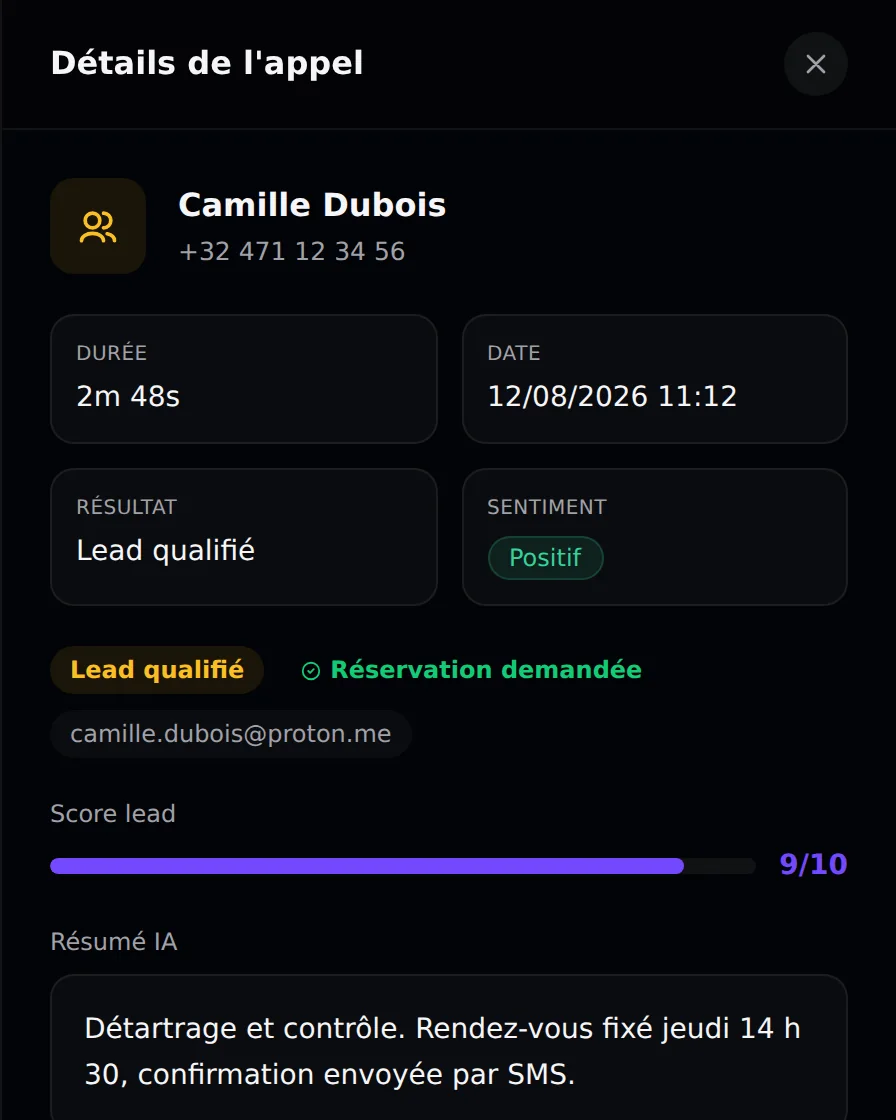
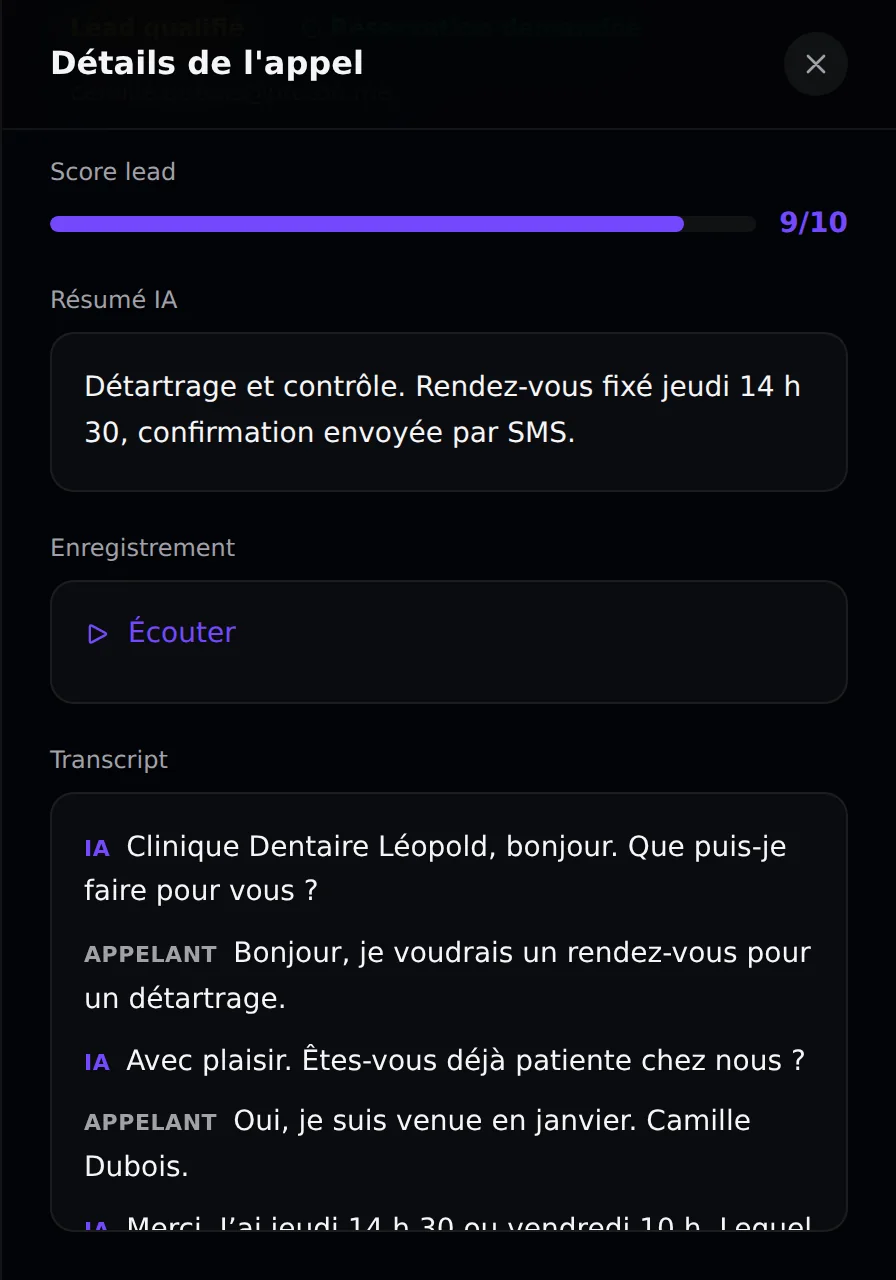
feat: le chat prend la hauteur de l'écran, et le transcript s'affiche
Réceptionniste IA: la carte du chat descend jusqu'en bas de la fenêtre à
partir de `lg` (demande utilisateur), et la page prend la largeur de
l'écran au lieu de s'arrêter à 1152 px. Le compte de hauteur n'est pas le
même au téléphone (entête + barre flottante) qu'au bureau (les seules
marges de `main`), donc il passe du style en ligne à deux classes, une par
point de rupture. Le parent colle à `lg:top-8`, la valeur qu'il occupe déjà:
collé ou non, le même rectangle.

Appels: le transcript s'affiche enfin dans la fiche d'appel. Il était
renvoyé par l'API depuis toujours, et aucun écran ne le montrait, alors que
le site promet « résumé, transcript, enregistrement » et que le bouton de
l'email de notification dit « Écouter et lire le transcript ». Les répliques
sont attribuées à l'IA ou à l'appelant (`utils/transcript.ts`, testé), dans
une boîte qui défile.

Captures: la fiche du site est prise déroulée jusqu'en bas, pour qu'on y
voie l'enregistrement et le transcript dont parle la carte (retour
utilisateur: « on ne voit pas les boutons »). Les fenêtres de capture du
chat et de la fiche suivent leur nouvelle hauteur.

diff --git a/frontend/src/pages/client/ClientCalls.tsx b/frontend/src/pages/client/ClientCalls.tsx
@@ -14,6 +14,7 @@ import Pagination from '../../components/client-dashboard/Pagination';
 import EmptyState from '../../components/client-dashboard/EmptyState';
 import { formatDuration, formatDateTime, exportToCSV } from '../../utils/format';
 import PageHeader from '../../components/dashboard/PageHeader';
+import { parseTranscript } from '../../utils/transcript';
 
 // ── Types ──────────────────────────────────────────────────────────────────
 
@@ -32,6 +33,11 @@ interface Call {
   emailCollected: string;
   leadScore: number | null;
   recordingUrl: string;
+  /* Le transcript est renvoyé par `/my-dashboard/calls` depuis toujours (la
+     requête ne pose aucun `select`, elle rend la ligne entière), mais aucun
+     écran ne l'affichait: le site promettait « résumé, transcript et
+     enregistrement », et le portail n'en montrait que deux sur trois. */
+  transcript: string | null;
 }
 
 interface Overview {
@@ -628,6 +634,39 @@ export default function ClientCalls() {
                           Votre navigateur ne supporte pas l'audio.
                         </audio>
                       )}
+                    </div>
+                  </div>
+                )}
+
+                {/* Transcript. Il vient juste après l'enregistrement, parce que
+                    c'est le même geste: écouter, ou lire. Le bouton de l'email
+                    de notification dit d'ailleurs « Écouter et lire le
+                    transcript », et menait jusqu'ici à une page qui ne savait
+                    faire que la première moitié.
+                    La boîte DÉFILE au lieu de pousser: un appel de trois
+                    minutes fait quarante répliques, et le panneau se serait
+                    déroulé sur trois écrans, laissant le résumé et
+                    l'enregistrement hors de vue. */}
+                {selectedCall.transcript && (
+                  <div>
+                    <p className="text-xs text-[#A1A1A8] mb-2">Transcript</p>
+                    <div className="rounded-xl bg-white/[0.04] border border-white/[0.07] p-4 max-h-[220px] overflow-y-auto space-y-2">
+                      {parseTranscript(selectedCall.transcript).map((line, i) => (
+                        <p key={i} className="text-sm leading-relaxed">
+                          {line.who && (
+                            /* Le locuteur en tête de réplique, pas une bulle:
+                               on lit un compte rendu, on ne rejoue pas la
+                               conversation. Deux couleurs suffisent à savoir
+                               qui parle sans relire l'étiquette. */
+                            <span className={`mr-2 text-[11px] font-semibold uppercase tracking-wide ${
+                              line.who === 'agent' ? 'text-[#7349fe]' : 'text-[#A1A1A8]'
+                            }`}>
+                              {line.who === 'agent' ? 'IA' : 'Appelant'}
+                            </span>
+                          )}
+                          <span className="text-[#F5F5F7]">{line.text}</span>
+                        </p>
+                      ))}
                     </div>
                   </div>
                 )}

diff --git a/frontend/src/components/client/AssistantChat.tsx b/frontend/src/components/client/AssistantChat.tsx
@@ -703,24 +703,26 @@ export default function AssistantChat({
          permet aux cartes de messages, elles, de prendre le gris des rangées
          du hub juste en dessous: deux gris différents pour deux niveaux, au
          lieu de trois valeurs qui se disputaient la même profondeur. */
-      className="rounded-2xl border border-white/[0.08] bg-[#0a0a0a] overflow-hidden flex flex-col"
-      style={{
-        height: showHeader
-          /* Le chat prend l'écran, et la barre du bas s'arrête pile au-dessus
-             de « L'AGENT » (demande utilisateur).
-             Le compte: 68 px d'entête réservés en haut de `main`, 84 px pour
+      className={`rounded-2xl border border-white/[0.08] bg-[#0a0a0a] overflow-hidden flex flex-col ${
+        showHeader
+          /* Au TÉLÉPHONE: 68 px d'entête réservés en haut de `main`, 84 px pour
              la barre flottante (20 px de marge + 64 px de haut), 8 px de
              respiration. Le titre du groupe suivant tombe alors DERRIÈRE la
-             barre, ce qui est exactement l'effet demandé: on sait qu'il y a
-             une suite sans qu'elle prenne de la place. */
-          /* Plus de plafond de 720 px (demande utilisateur: « le chat plein
-             écran jusqu'en bas »). Il bridait la carte sur un grand écran, où
-             elle s'arrêtait à mi-hauteur pendant que la colonne d'à côté
-             continuait. Le plancher reste, il garde la carte utilisable sur un
-             petit écran en paysage. */
-          ? 'max(320px, calc(100dvh - 160px))'
-          : 480,
-      }}
+             barre, ce qui est exactement l'effet demandé: on sait qu'il y a une
+             suite sans qu'elle prenne de la place. Le plancher garde la carte
+             utilisable sur un petit écran en paysage.
+             À partir de `lg`: la carte descend JUSQU'EN BAS de la fenêtre
+             (demande utilisateur: « met en plein écran le chat »). Ni entête
+             mobile ni barre flottante à cette largeur, il ne reste que les
+             32 px de marge de `<main>` (`md:p-8`) en haut et en bas, d'où
+             `100dvh - 64px`. Le parent colle à `lg:top-8`, la MÊME valeur:
+             collée ou non, la carte occupe le même rectangle, et rien ne saute
+             au défilement.
+             En CLASSES et non en `style`: une hauteur par point de rupture,
+             ce qu'un style en ligne ne sait pas exprimer, et qu'il écraserait. */
+          ? 'h-[max(320px,calc(100dvh-160px))] lg:h-[calc(100dvh-64px)]'
+          : 'h-[480px]'
+      }`}
     >
       {/* Header: who you are talking to, the AI number, and the live test call.
           This is the page's identity block, kept here so the panel is

diff --git a/frontend/src/pages/client/ClientReceptionist.tsx b/frontend/src/pages/client/ClientReceptionist.tsx
@@ -564,22 +564,27 @@ export default function ClientReceptionist() {
   return (
     /* Deux colonnes à partir de `lg`: le chat À DROITE sur deux tiers, les
        réglages À DROITE sur un tiers (demande utilisateur).
-       La largeur passe de `max-w-3xl` à `max-w-6xl`, sinon la mise en colonnes
-       RÉTRÉCIRAIT le chat: deux tiers de 768 px valent moins que les 768 px
-       qu'il occupe aujourd'hui. À 1152 px, ses deux tiers font exactement les
-       768 px d'avant, et la colonne de réglages est prise en plus, pas prise
-       au chat.
+       La page prend la LARGEUR de la fenêtre, plus les 1152 px de `max-w-6xl`
+       (demande utilisateur: « met en plein écran le chat »). Le cap laissait
+       plus de 100 px de vide à droite sur un portable de 1512, pendant que le
+       chat, lui, restait à 763. Le plafond de 1600 px reste, non pour la
+       fenêtre mais pour la LIGNE: au delà, une bulle de conversation devient
+       une bande de texte qu'on ne relit plus.
        Le chat reste PREMIER dans le DOM: c'est ce qu'on vient faire ici neuf
        fois sur dix, donc il doit rester en tête au clavier et en haut sur
        mobile, où la grille retombe à une colonne. `order` ne déplace que le
        rendu, à partir de `lg`. */
-    <div className="max-w-6xl pb-2">
+    <div className="max-w-[1600px] pb-2">
       <div className="grid grid-cols-1 lg:grid-cols-3 gap-4 items-start">
       {/* LE CHAT À GAUCHE, les réglages à droite (demande utilisateur: c'était
           l'inverse). Il est aussi COLLANT: à pleine hauteur, il resterait
           autrement à défiler avec une colonne de réglages bien plus longue que
           lui, et on perdrait de vue ce qu'on est venu faire. */}
-      <div className="lg:order-1 lg:col-span-2 lg:sticky lg:top-2">
+      {/* `lg:top-8` et non `top-2`: c'est la marge de `<main>` (`md:p-8`), donc
+          la position que la carte occupe DÉJÀ avant tout défilement. Avec
+          `top-2`, elle remontait de 24 px en se collant, et sa hauteur pleine
+          fenêtre lui faisait alors dépasser le bas de l'écran. */}
+      <div className="lg:order-1 lg:col-span-2 lg:sticky lg:top-8">
       {/* Assistant conversationnel : parler pour configurer et onboarder.
           Il porte aussi l'identité de la page (titre, entreprise, plan), le
           numéro copiable, l'appel test live et la jauge de minutes, pour que

diff --git a/frontend/src/utils/transcript.test.ts b/frontend/src/utils/transcript.test.ts
@@ -1,0 +1,37 @@
+import { describe, it, expect } from 'vitest';
+import { parseTranscript } from './transcript';
+
+describe('parseTranscript', () => {
+  it('attribue chaque réplique au bon locuteur', () => {
+    const out = parseTranscript('AI: Bonjour.\nUser: Un rendez-vous, svp.');
+    expect(out).toEqual([
+      { who: 'agent', text: 'Bonjour.' },
+      { who: 'caller', text: 'Un rendez-vous, svp.' },
+    ]);
+  });
+
+  it('accepte les autres noms de locuteur rendus par Vapi', () => {
+    expect(parseTranscript('Assistant: A\nBot: B\nCustomer: C\nCaller: D').map(l => l.who))
+      .toEqual(['agent', 'agent', 'caller', 'caller']);
+  });
+
+  /* Le cas qui compte: une ligne sans préfixe ne doit être ni perdue, ni
+     attribuée d'office à l'agent. Un transcript mal formé reste lisible. */
+  it('garde une ligne sans préfixe, sans lui inventer de locuteur', () => {
+    expect(parseTranscript('Appel transféré au cabinet.')).toEqual([
+      { who: null, text: 'Appel transféré au cabinet.' },
+    ]);
+  });
+
+  it('ignore les lignes vides et les répliques sans texte', () => {
+    expect(parseTranscript('AI: Bonjour.\n\n   \nUser:   \n')).toEqual([
+      { who: 'agent', text: 'Bonjour.' },
+    ]);
+  });
+
+  /* Deux points dans la phrase: seul le PREMIER sépare le locuteur du texte. */
+  it('ne coupe pas la réplique au deuxième deux-points', () => {
+    expect(parseTranscript('AI: Deux créneaux: jeudi 14 h 30, vendredi 10 h.')[0].text)
+      .toBe('Deux créneaux: jeudi 14 h 30, vendredi 10 h.');
+  });
+});

diff --git a/frontend/src/utils/transcript.ts b/frontend/src/utils/transcript.ts
@@ -1,0 +1,28 @@
+/**
+ * Relecture du transcript d'appel.
+ *
+ * Vapi le rend en TEXTE PLAT: une réplique par ligne, préfixée du locuteur
+ * (« AI: », « User: », et selon les versions « Assistant », « Bot »,
+ * « Customer »). Affiché tel quel, c'est un mur de texte où l'on ne sait plus
+ * qui parle; d'où cette relecture, qui rend des répliques attribuées.
+ *
+ * Une ligne dont le préfixe n'est pas reconnu reste une ligne entière, sans
+ * locuteur: on ne lui en invente pas un, et on ne perd pas son texte.
+ */
+export type TranscriptLine = { who: 'agent' | 'caller' | null; text: string };
+
+const SPEAKER = /^(AI|Assistant|Bot|Agent|User|Human|Customer|Caller)\s*:\s*(.*)$/i;
+const IS_CALLER = /^(user|human|customer|caller)$/i;
+
+export function parseTranscript(raw: string): TranscriptLine[] {
+  return raw
+    .split('\n')
+    .map(l => l.trim())
+    .filter(Boolean)
+    .map(line => {
+      const m = SPEAKER.exec(line);
+      if (!m) return { who: null, text: line };
+      return { who: IS_CALLER.test(m[1]) ? 'caller' : 'agent', text: m[2] } as TranscriptLine;
+    })
+    .filter(r => r.text.length > 0);
+}
